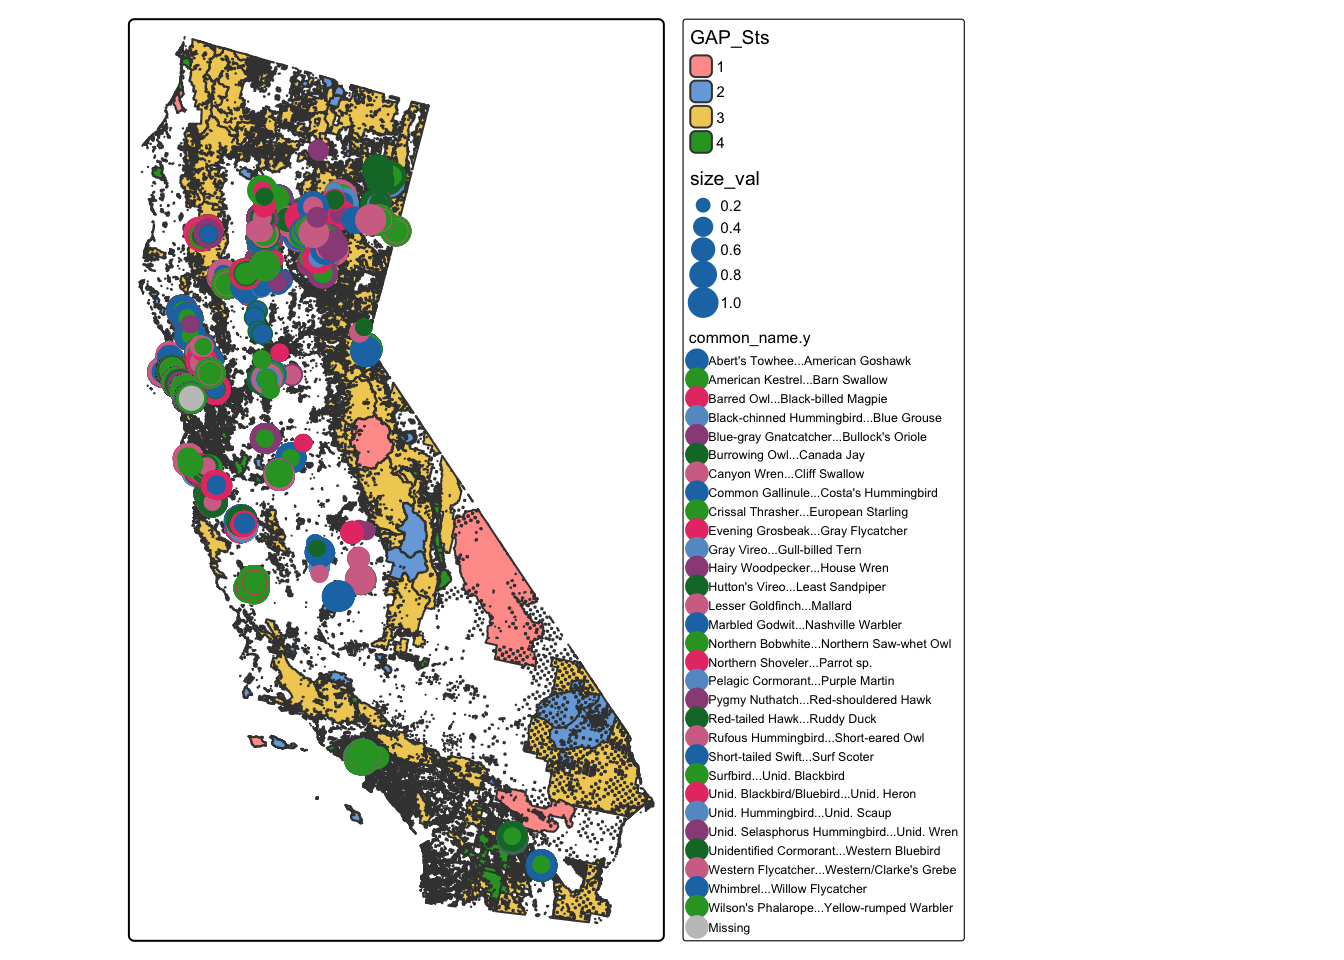
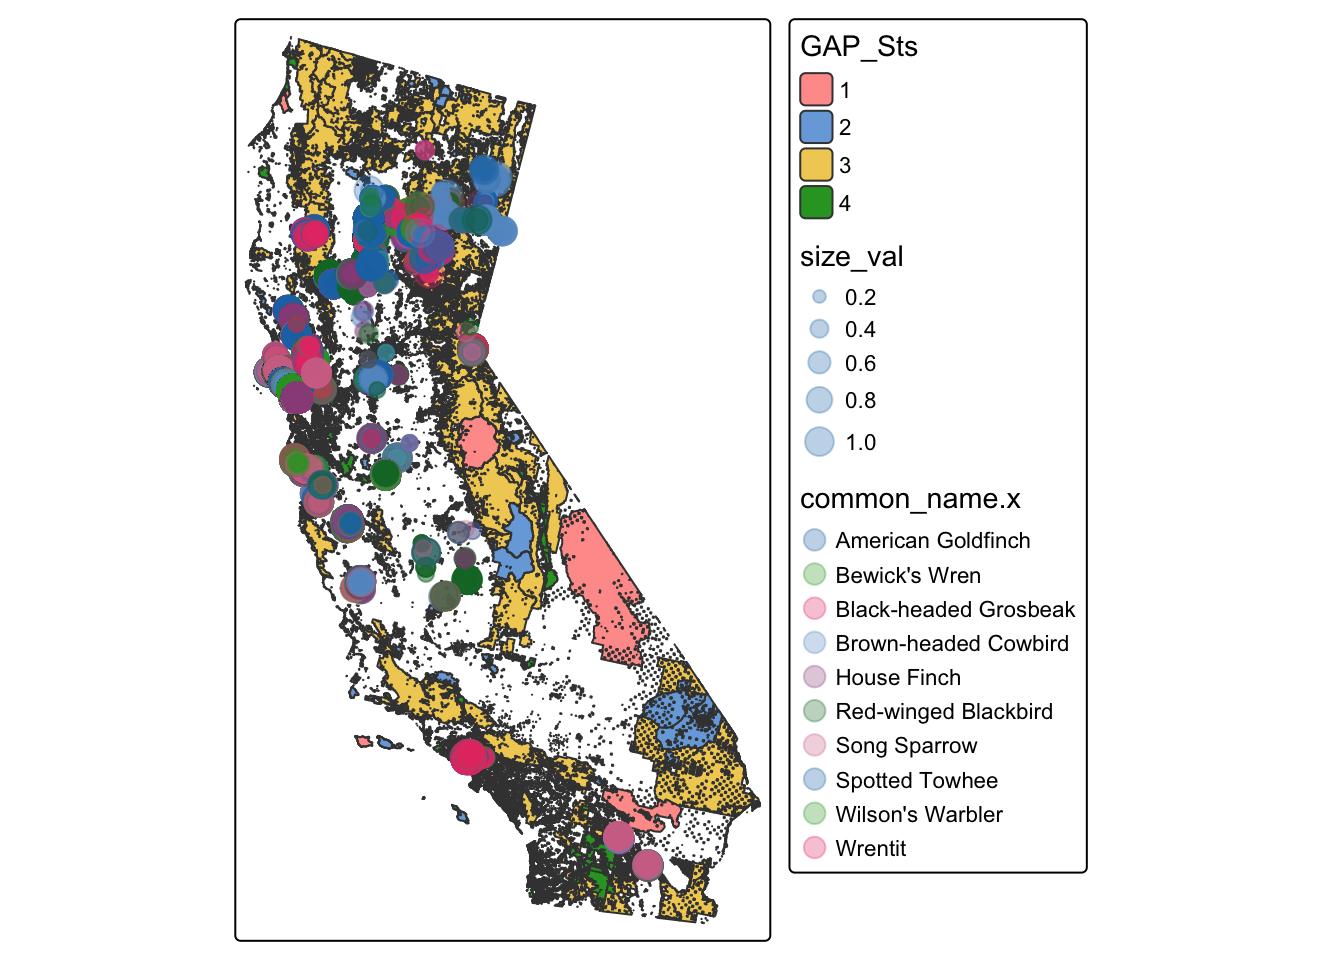
Add visualization of birds

diff --git a/exploratory_flash_talk.html b/exploratory_flash_talk.html
@@ -235,8 +235,9 @@ Caused by warning in `common_name == top_10_species`:
 <div class="code-copy-outer-scaffold"><div class="sourceCode cell-code" id="cb18"><pre class="sourceCode r code-with-copy"><code class="sourceCode r"><span id="cb18-1"><a href="#cb18-1" aria-hidden="true" tabindex="-1"></a><span class="fu">tm_shape</span>(gap)<span class="sc">+</span></span>
 <span id="cb18-2"><a href="#cb18-2" aria-hidden="true" tabindex="-1"></a>  <span class="fu">tm_polygons</span>(<span class="at">fill =</span> <span class="st">"GAP_Sts"</span>)<span class="sc">+</span></span>
 <span id="cb18-3"><a href="#cb18-3" aria-hidden="true" tabindex="-1"></a><span class="fu">tm_shape</span>(point_count_gdf)<span class="sc">+</span></span>
-<span id="cb18-4"><a href="#cb18-4" aria-hidden="true" tabindex="-1"></a>  <span class="fu">tm_dots</span>(<span class="at">fill =</span> <span class="st">'common_name.y'</span>, </span>
-<span id="cb18-5"><a href="#cb18-5" aria-hidden="true" tabindex="-1"></a>          <span class="at">size =</span> <span class="st">'size_val'</span>)</span></code></pre></div><button title="Copy to Clipboard" class="code-copy-button"><i class="bi"></i></button></div>
+<span id="cb18-4"><a href="#cb18-4" aria-hidden="true" tabindex="-1"></a>  <span class="fu">tm_dots</span>(<span class="at">fill =</span> <span class="st">'common_name.x'</span>, </span>
+<span id="cb18-5"><a href="#cb18-5" aria-hidden="true" tabindex="-1"></a>          <span class="at">size =</span> <span class="st">'size_val'</span>,</span>
+<span id="cb18-6"><a href="#cb18-6" aria-hidden="true" tabindex="-1"></a>          <span class="at">fill_alpha =</span> .<span class="dv">3</span>)</span></code></pre></div><button title="Copy to Clipboard" class="code-copy-button"><i class="bi"></i></button></div>
 <div class="cell-output-display">
 <div>
 <figure class="figure">
